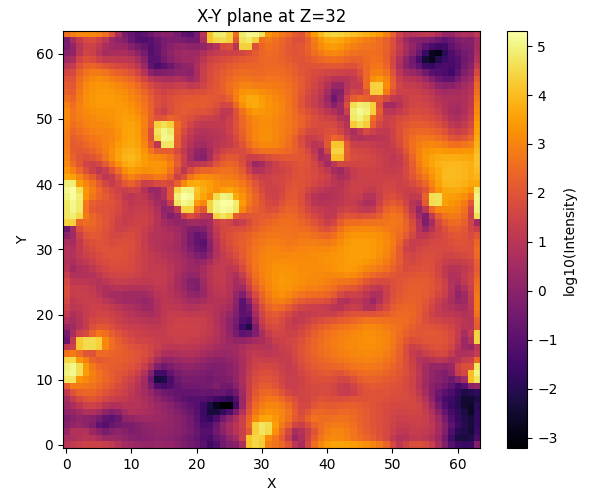
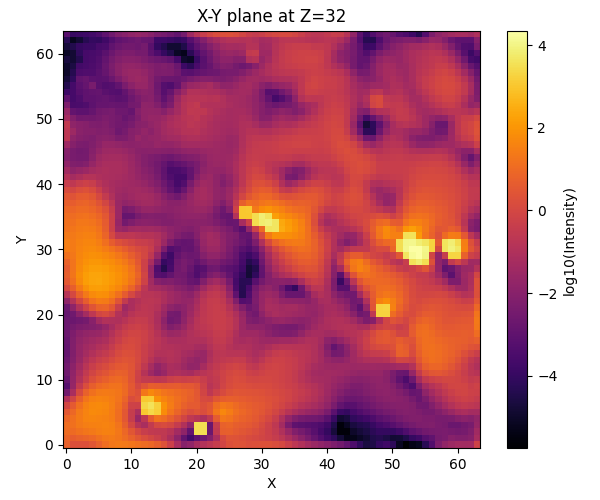
parallelization using sharding

diff --git a/ray_trax/ray_trax_3D.py b/ray_trax/ray_trax_3D.py
@@ -1,29 +1,17 @@
 import jax
 import jax.numpy as jnp
+import numpy as np
 from functools import partial
+from jax.sharding import NamedSharding, PartitionSpec as P
 
-
-@partial(jax.jit, static_argnames=["num_rays", "step_size", "max_steps"])
-def compute_radiation_field_from_source(j_map, kappa_map, source_pos, num_rays=1000, step_size=0.5, max_steps=500):
-
-    """
-    Compute the radiation field in 3D space from a single distributed source via ray tracing.
-
-    Parameters:
-        j_map (3D array): emissivity field
-        kappa_map (3D array): opacity field
-        source_pos (array-like of shape (3,)): starting point of rays
-        num_rays (int): number of directions to sample
-        step_size (float): step size along rays
-        max_steps (int): max steps per ray
-
-    Returns:
-        3D array: accumulated radiation field
-    """
-
+@partial(jax.jit, static_argnames=["num_rays", "step_size", "max_steps", "use_sharding"])
+def compute_radiation_field_from_source(
+    j_map, kappa_map, source_pos,
+    num_rays=1000, step_size=0.5, max_steps=500,
+    use_sharding=False
+):
     Nx, Ny, Nz = j_map.shape
 
-    # === Sample directions uniformly on the unit sphere using the Fibonacci method ===
     def sample_sphere(n):
         i = jnp.arange(0, n)
         golden_ratio = (1 + jnp.sqrt(5)) / 2
@@ -35,7 +23,6 @@ def compute_radiation_field_from_source(j_map, kappa_map, source_pos, num_rays=1
         z = cos_theta
         return jnp.stack([x, y, z], axis=1)
 
-    directions = sample_sphere(num_rays)
 
     # === Trilinear interpolation / deposition operator ===
 
@@ -87,56 +74,89 @@ def compute_radiation_field_from_source(j_map, kappa_map, source_pos, num_rays=1
                 updates = updates.at[ix, iy, iz].add(w * value)
             return grid + updates
 
-    # === Trace one ray from the source in a given direction ===
+
+    directions = sample_sphere(num_rays)
+
     def trace_single_ray(direction):
         def body_fn(i, state):
             x, y, z, I, tau, J = state
-
-            # Interpolate local emissivity and opacity
             j_val = trilinear_op(j_map, x, y, z, mode="interp")
             kappa_val = trilinear_op(kappa_map, x, y, z, mode="interp")
-
-            # Step updates
             ds = step_size
             d_tau = kappa_val * ds
             dI = j_val * jnp.exp(-tau) * ds
-
-            
-            # Update intensity and optical depth
             I_new = I * jnp.exp(-d_tau) + dI
             tau_new = tau + d_tau
-
-            # Deposit the current intensity in the radiation field
             J = trilinear_op(J, x, y, z, value=I_new, mode="deposit")
-
-            # Move to next position along ray
             x_new = x + direction[0] * ds
             y_new = y + direction[1] * ds
             z_new = z + direction[2] * ds
             return (x_new, y_new, z_new, I_new, tau_new, J)
 
-        # Initialize state at source
         x0, y0, z0 = source_pos
         initial = (x0, y0, z0, 0.0, 0.0, jnp.zeros_like(j_map))
-
-        # March forward along the ray
         _, _, _, _, _, J_ray = jax.lax.fori_loop(0, max_steps, body_fn, initial)
         return J_ray
+    '''
+    if use_pmap:
+        n_devices = jax.device_count()
+        if num_rays % n_devices != 0:
+            raise ValueError(f"num_rays ({num_rays}) must be divisible by number of devices ({n_devices}) for pmap.")
 
-    # === Trace all rays in parallel ===
-    J_all = jax.vmap(trace_single_ray)(directions)
+        rays_per_device = num_rays // n_devices
+        directions_sharded = directions.reshape((n_devices, rays_per_device, 3))
 
-    # Normalize by the total solid angle
+        @partial(jax.pmap, axis_name='devices')
+        def trace_ray_batch(dir_batch):
+            return jax.vmap(trace_single_ray)(dir_batch)  # [rays_per_device, Nx, Ny, Nz]
+
+        J_all_sharded = trace_ray_batch(directions_sharded)  # [n_devices, rays_per_device, Nx, Ny, Nz]
+        J_all = J_all_sharded.reshape((num_rays, *j_map.shape))  # [num_rays, Nx, Ny, Nz]
+    '''
+    if use_sharding:
+        # Build mesh and sharding
+        devices = jax.devices()
+        n_devices = len(devices)
+
+        if num_rays % n_devices != 0:
+            raise ValueError(f"num_rays ({num_rays}) must be divisible by number of devices ({n_devices}).")
+
+        mesh_shape = (n_devices,)
+        mesh = jax.sharding.Mesh(np.array(devices).reshape(mesh_shape), axis_names=('x',))
+        sharding = NamedSharding(mesh, P('x', None))  # rays over 'x', each ray is a (3,) vector
+
+        # Reshape and shard directions
+        directions_reshaped = directions.reshape((n_devices, -1, 3))
+        directions_sharded = jax.device_put(directions_reshaped, sharding)
+
+        # Apply vmap over each shard
+        @jax.vmap  # Automatically parallel within each device
+        def trace_ray_batch(dir_batch):
+            return jax.vmap(trace_single_ray)(dir_batch)
+
+        with mesh:
+            J_all_sharded = trace_ray_batch(directions_sharded)  # [n_devices, rays_per_device, Nx, Ny, Nz]
+
+        # Merge all rays
+        J_all = J_all_sharded.reshape((num_rays, *j_map.shape))  # [num_rays, Nx, Ny, Nz]
+    else:
+        # No sharding: simple vmap over all rays
+        J_all = jax.vmap(trace_single_ray)(directions)
+
+    # Sum over all rays
     return jnp.sum(J_all, axis=0) * (4 * jnp.pi / num_rays)
 
 
 def compute_radiation_field_from_multiple_sources(
     j_map, kappa_map, source_positions,
-    num_rays=1000, step_size=0.5, max_steps=500
+    num_rays=1000, step_size=0.5, max_steps=500,
+    use_sharding=False
 ):
+    
+
     """
     Computes the total radiation field from multiple sources in 3D using ray tracing.
-    
+
     Parameters:
         j_map (3D array): emissivity map
         kappa_map (3D array): absorption coefficient map
@@ -144,19 +164,28 @@ def compute_radiation_field_from_multiple_sources(
         num_rays (int): number of rays per source
         step_size (float): ray marching step size
         max_steps (int): number of steps per ray
+        use_sharding (bool): whether to use multi-GPU parallelization
 
     Returns:
         3D array: total radiation field
     """
+
+
+
+    
     J_total = jnp.zeros_like(j_map)
     for source_pos in source_positions:
         J_total += compute_radiation_field_from_source(
-            j_map,
-            kappa_map,
-            source_pos=jnp.array(source_pos),
-            num_rays=num_rays,
-            step_size=step_size,
-            max_steps=max_steps
-        )
+                j_map,
+                kappa_map,
+                source_pos=jnp.array(source_pos),
+                num_rays=num_rays,
+                step_size=step_size,
+                max_steps=max_steps,
+                use_sharding = use_sharding
+
+            )
+
     return J_total
+
 

diff --git a/example_ray_trax_3D.py b/example_ray_trax_3D.py
@@ -1,5 +1,5 @@
 import os
-os.environ["CUDA_VISIBLE_DEVICES"] = "0"
+os.environ["CUDA_VISIBLE_DEVICES"] = "8, 9"
 
 import sys
 import jax
@@ -17,13 +17,13 @@ import time
 
 # Config
 Nx, Ny, Nz = 64, 64, 64
-key = random.PRNGKey(42)
+key = random.PRNGKey(111)
 
 # Generate absorption field and mask
 kappa, mask = generate_correlated_lognormal_field_3D(
     key, shape=(Nx, Ny, Nz),
     mean=1.0, length_scale=0.05,
-    sigma_g=1.2, percentile=99
+    sigma_g=1.2, percentile=99.5
 )
 
 
@@ -35,13 +35,13 @@ star_positions = star_indices.astype(jnp.float32) + 0.5
 # Create emissivity field
 emissivity = jnp.zeros((Nx, Ny))
 for pos in star_positions:
-    emissivity += gaussian_emissivity(Nx, Ny, Nz, center=pos, amplitude=1e3, width=5.0)
+    emissivity += gaussian_emissivity(Nx, Ny, Nz, center=pos, amplitude=1e3, width=1.0)
 
 # Ray tracing
 tstart = time.time()
 J_multi = compute_radiation_field_from_multiple_sources(
     emissivity, kappa, star_positions,
-    num_rays=4000, step_size=0.5, max_steps=400
+    num_rays=4096, step_size=0.5, max_steps=400, use_sharding = True
 )
 tend = time.time()
 print("Total time: ", tend - tstart)
